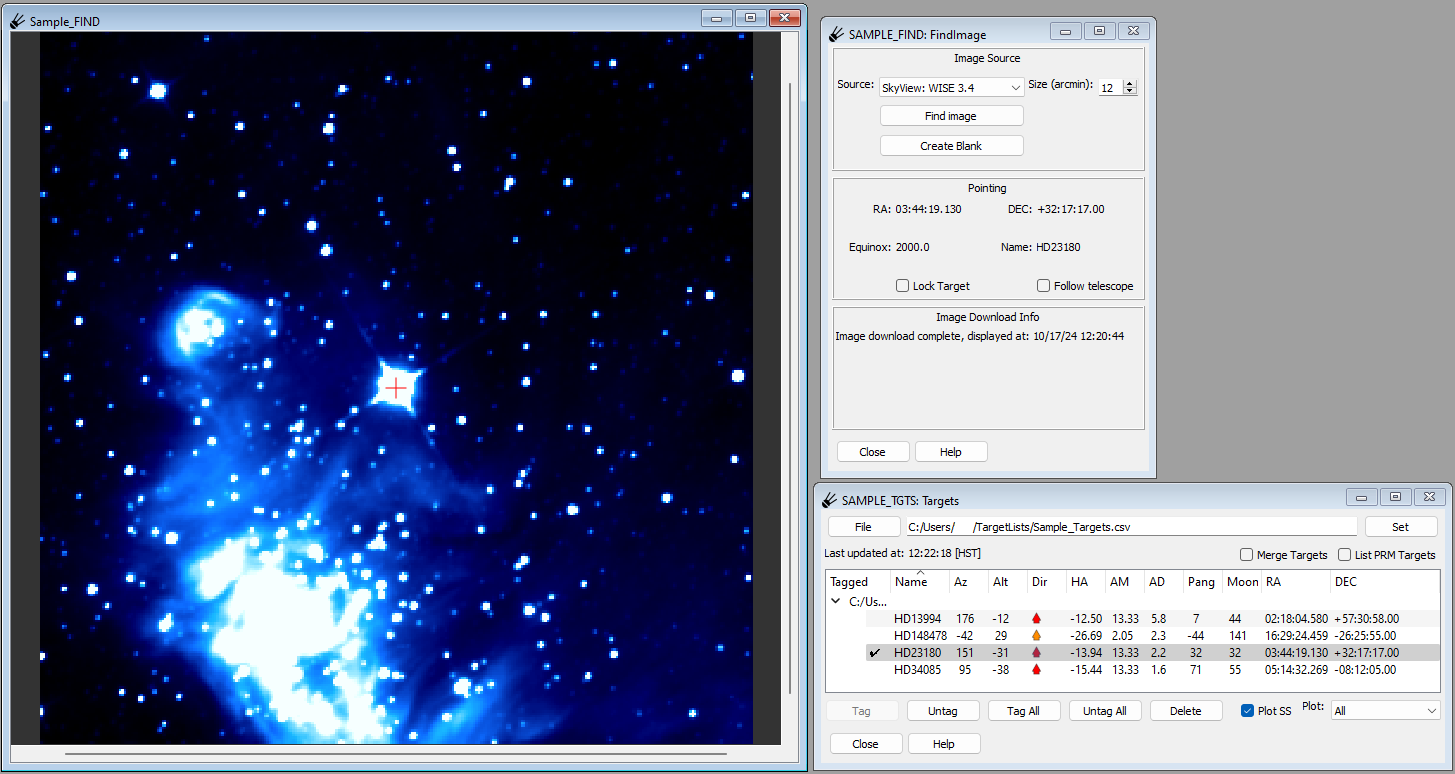
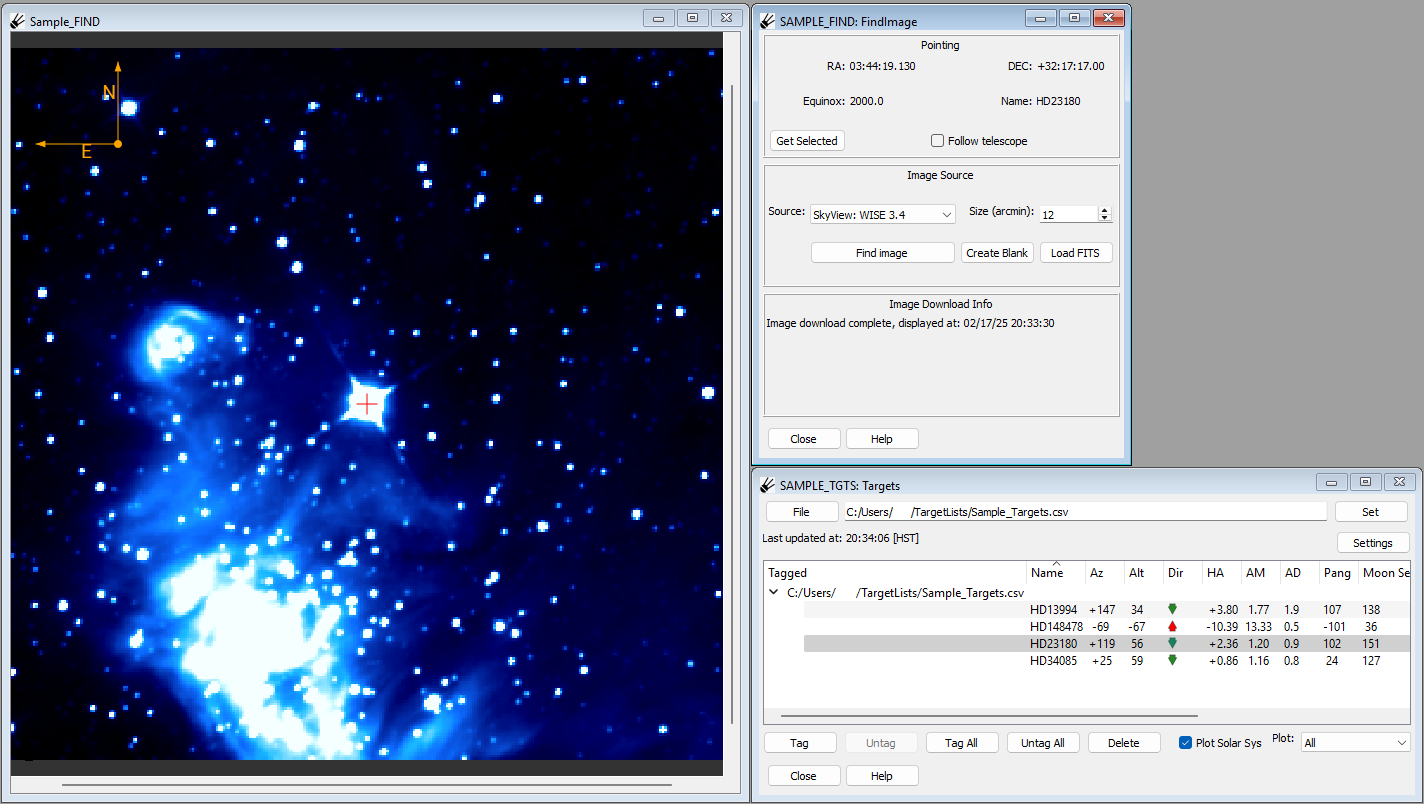
Updated several images in the manual

diff --git a/doc/manual/hsc.rst b/doc/manual/hsc.rst
@@ -18,18 +18,15 @@ We will go over each of these steps in turn.
 Establishing Pointing
 =====================
 
-To establish pointing, you can type RA and DEC coordinates (sexigesimal)
-into the corresponding boxes under the "Position" section of the GUI and
-click "Set Pointing".
+The easiest way to establish pointing is to load the Targets plugin
+with your targets from an OPE or CSV file.  Then, select exactly one
+of the targets and then click the "From a target" button.  The RA,
+DEC, Equinox and Object fields should be filled out.
 
-Another way that is fairly easy is to drag a FITS image that has a
-reasonably accurate WCS with pointing for the desired field into the
-main window. Click anywhere on the image to set the RA and DEC boxes,
-and you can then click "Set Pointing".
-
-You can use this image as the background image (and skip Step B) if
-the FOV is wide enough to show your target of interest (HSC FOV is
-approx 1.5 deg).
+If you prefer to set it manually, you can type RA and DEC coordinates
+into the corresponding boxes under the "Pointing" section of the GUI
+and click "Set manually". You can use sexigesimal format, with RA in
+H:M:S and DEC in D:M:S or decimal numbers interpreted as degrees.
 
 ==========================
 Create Field from Pointing
@@ -37,30 +34,25 @@ Create Field from Pointing
 
 Once pointing is established, we need to create a background field with
 correct WCS to do the correct overplotting to visualize the acquisition.
-You can either load your own background image (already discussed),
-create a blank field, or download a DSS image of the field (if available).
+We will generally do this with the FindImage (Finding Chart) plugin.
+Make sure that plugin is started, and then click the button
+"Send pointing to FindImage" to set the defined pointingin that plugin.
 
-To create a blank image click "Create Blank". To download a DSS field
-click "Get DSS". To use the DSS function you will need a functioning
-internet connection.
+In FindImage, create a blank field (by clicking "Create Blank"), or
+download a survey image of the field (select a survey and click
+"Find image"). If you'd prefer to use your own locally stored FITS
+image, you can load it using the "Load FITS" button.
 
-
-.. note::   The default location for DSS download is from ESO's web 
-            site and it may take up to a minute to download and update 
-            the background image. If you experience trouble acquiring a 
-            DSS image it is recommended that you download your own 
-            background FITS image and load it in step A.
+Note that a blank field is perfectly fine for visualizing where your
+targets will land on the detectors.
 
 ================================
 Placing Targets within the Field
 ================================
 
-To place targets within the field, you can type RA and DEC coordinates
-as in step A above or simply click in the field where you want a target
-(as in step A the RA and DEC boxes will be filled when you click).
-Press "Add Target" to add the current RA/DEC as a target. You can fine
-tune the target position by simply moving it using the cursor.
-To completely clear the target list, press "Clear All".
+To place targets within the field, select the desired targets in the
+Targets table and click "Add Targets".  To clear any existing targets
+click "Clear Targets".
 
 ============================================
 Set the Acquisition Parameters and Visualize
@@ -110,6 +102,11 @@ Once you have set the parameters as desired, press the "Update Image"
 button to update the overlays. You can then use the "Show Step" control
 to step through your dither.
 
+.. image:: figures/HSC2.*
+
+Image contains data from the WISE 3.4 :math:`\mu`\ m survey. 
+(`Wright et al (2010)`_, `Mainzer et al (2011)`_)
+
 .. note::   It may be helpful to view the field first with the image 
             zoomed out, and then later to pan to your target (hint: 
             use Shift+click to set pan position) and zoom in to more 
@@ -125,3 +122,6 @@ helpful when repositioning targets to press the "Clear Overlays" button,
 which will remove the detector and dither position overlays.  Pressing
 "Update Image" will bring them right back.
 
+.. _Wright et al (2010): https://ui.adsabs.harvard.edu/abs/2010AJ....140.1868W/abstract
+
+.. _Mainzer et al (2011): https://ui.adsabs.harvard.edu/abs/2011ApJ...731...53M/abstract

diff --git a/doc/manual/targetlist.rst b/doc/manual/targetlist.rst
@@ -9,7 +9,7 @@ objects that could be observed.  It allows you to load one or more files
 of targets and then plot them on the :ref:`TargetsChannel`, or show their 
 visibility in the :doc:`visplot` plugin UI.
 
-.. image:: figures/targetlist2.*
+.. image:: figures/targetlist.*
 
 ===============================
 Loading targets from a CSV file
@@ -30,7 +30,10 @@ above format.  Or, type the path of the file in the box next to the "File"
 button and press "Set" (the latter method can also be used to quickly
 reload a file that you have edited).
 
-The targets should populate the table.
+The targets should populate the table and will be grouped by file. 
+To group targets into one group, select "Merge Targets" from the 
+"Settings" drop down menu and then load the files. Once loaded, a target 
+cannot be moved to another group.
 
 ================================
 Loading targets from an OPE file
@@ -45,6 +48,10 @@ choose an OPE file instead.
 .. note::  In order to load this format you need to have installed the
            optional "oscript" package:
            (pip install git+https://github.com/naojsoft/oscript).
+
+.. note::  Sometimes an OPE file will have hidden targets. To add those 
+           targets to the target list, select "List unreferenced targets"
+           from the "Settings" drop down menu.
 
 =================
 Table information
@@ -84,6 +91,3 @@ the :ref:`TargetsChannel`. Selecting "All" will show all of the targets,
 selecting "Tagged+Selected" will show all of the targets which have been 
 tagged or are selected, and selecting "Selected" will show only the 
 target which is selected.
-
-The "Settings" button has the options "Merge Targets" and 
-"List unreferenced targets". 

diff --git a/doc/manual/telescopepos.rst b/doc/manual/telescopepos.rst
@@ -3,7 +3,7 @@ Telescope Position
 ++++++++++++++++++
 
 The telescope position plugin displays live telescope and 
-target positions.
+target positions. 
 
 .. note:: In order to successfully use this plugin, it is necessary
           to write a custom companion plugin to provide the status
@@ -30,7 +30,25 @@ The "Rotate view to azimuth" button will orient the Targets
 window so the telescope azimuth is always facing towards the 
 top of the screen.
 
-The "Target follows telescope" button will ...
+The "Target follows telescope" button will select a target from 
+the target list which matches the telescope pointing. If a target 
+is manually selected from the target list while this option is selected, 
+it will be disabled to avoid conflicts. Similarly, selecting this option 
+will select the target the telescope is pointing toward or will unselect 
+all targets if the telescope is not pointing toward a target from the 
+target list. This option requires a plugin which collects the telescope 
+pointing data.
+
+===============
+Enabling Plugin
+===============
+
+This plugin in not enabled by default. To enable it, first go to 
+"PluginConfig", which may be found by pressing "Operation" at the bottom left 
+and then going to "Debug" and then "PluginConfig". 
+Find "Telescope Position" from the list of plugins, then press "Edit" and then 
+check the checkbox next to "Enabled". Press "Set", then close the window and 
+press "Save". Restart SPOT and the plugin should appear on the control panel. 
 
 ==========================
 Writing a Companion Plugin

diff --git a/doc/manual/intfov.rst b/doc/manual/intfov.rst
@@ -31,16 +31,6 @@ The RA and DEC will be autofilled by the :doc:`findchart` channel, but
 can also be adjusted manually by entering in the coordinates. The
 RA and DEC can be specified as decimal values or sexigesimal notation.
 
-To center the image on the current telescope pointing, check the box 
-next to "Follow telescope" in the :doc:`findchart` window.  This can allow
-you to watch a dither happening on an area of the sky if the world
-coordinate system is reasonably accurate in the finding image.
-
-.. note:: To get the "Follow telescope" feature to work, you need to
-          have written a companion plugin to get the status from your
-          telescope as described in the documentation for the
-          TelescopePosition plugin.
-
 
 .. _Wright et al (2010): https://ui.adsabs.harvard.edu/abs/2010AJ....140.1868W/abstract
 

diff --git a/doc/manual/lgs.rst b/doc/manual/lgs.rst
@@ -40,3 +40,13 @@ Displays the current laser shooting window and
 Time left: 
 Displays the time until the next opening or closing event. 
 
+===============
+Enabling Plugin
+===============
+
+This plugin in not enabled by default. To enable it, first go to 
+"PluginConfig", which may be found by pressing "Operation" at the bottom left 
+and then going to "Debug" and then "PluginConfig". 
+Find "LGS" from the list of plugins, then press "Edit" and then 
+check the checkbox next to "Enabled". Press "Set", then close the window and 
+press "Save". Restart SPOT and the plugin should appear on the control panel. 

diff --git a/doc/manual/visplot.rst b/doc/manual/visplot.rst
@@ -5,7 +5,7 @@ Visibility Plot
 This window contains a display which shows the altitude over time of 
 selected targets in your target list.
 
-.. image:: figures/Visibility2.*
+.. image:: figures/Visibility.*
 
 .. note:: This window will be blank if there are no targets selected.
 
@@ -53,7 +53,7 @@ channel by pressing the checkbox next to "Plot polar AzEl". When selected, the
 path of the target across the sky within the time range of the visibility plot 
 will be shown.
 
-.. image:: figures/Visibility2_2.*
+.. image:: figures/Visibility2.*
 
 ============
 Plot Options
